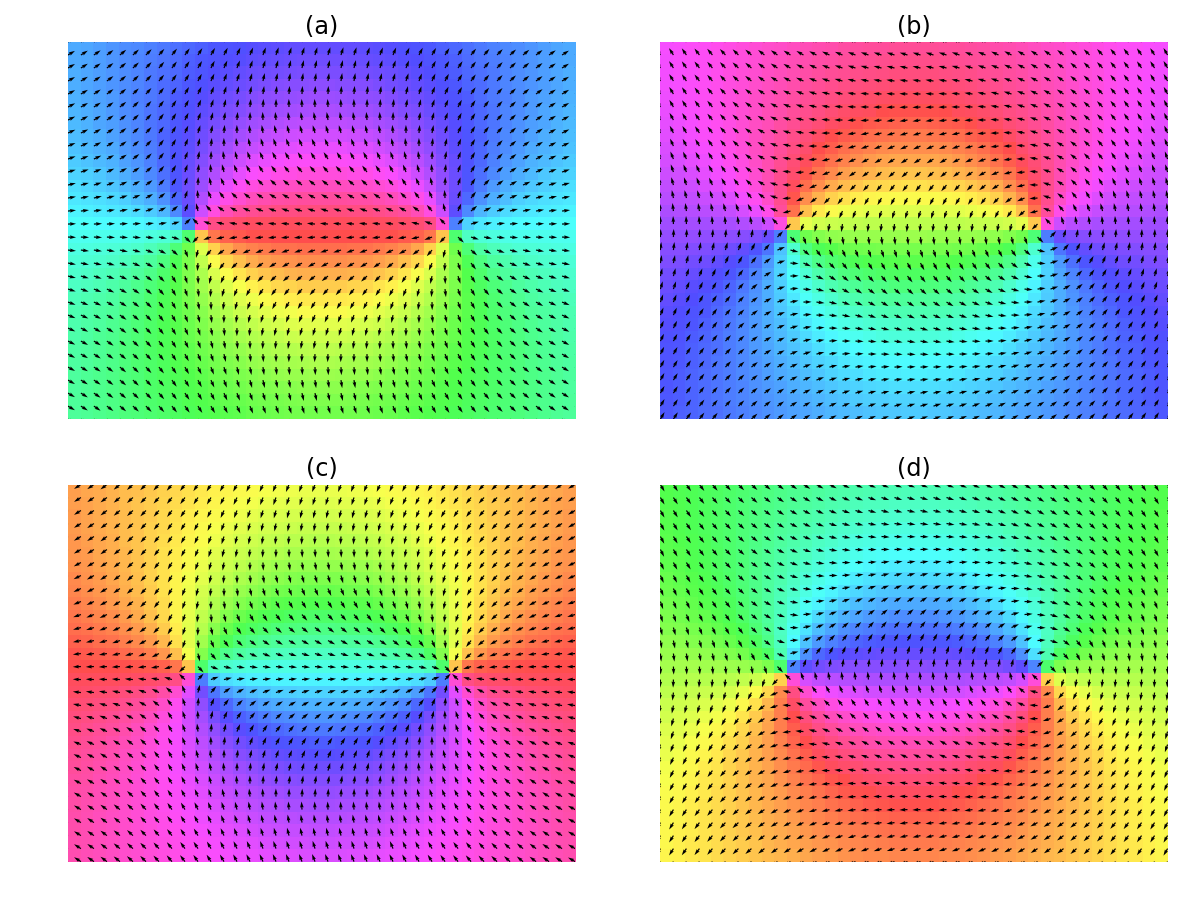
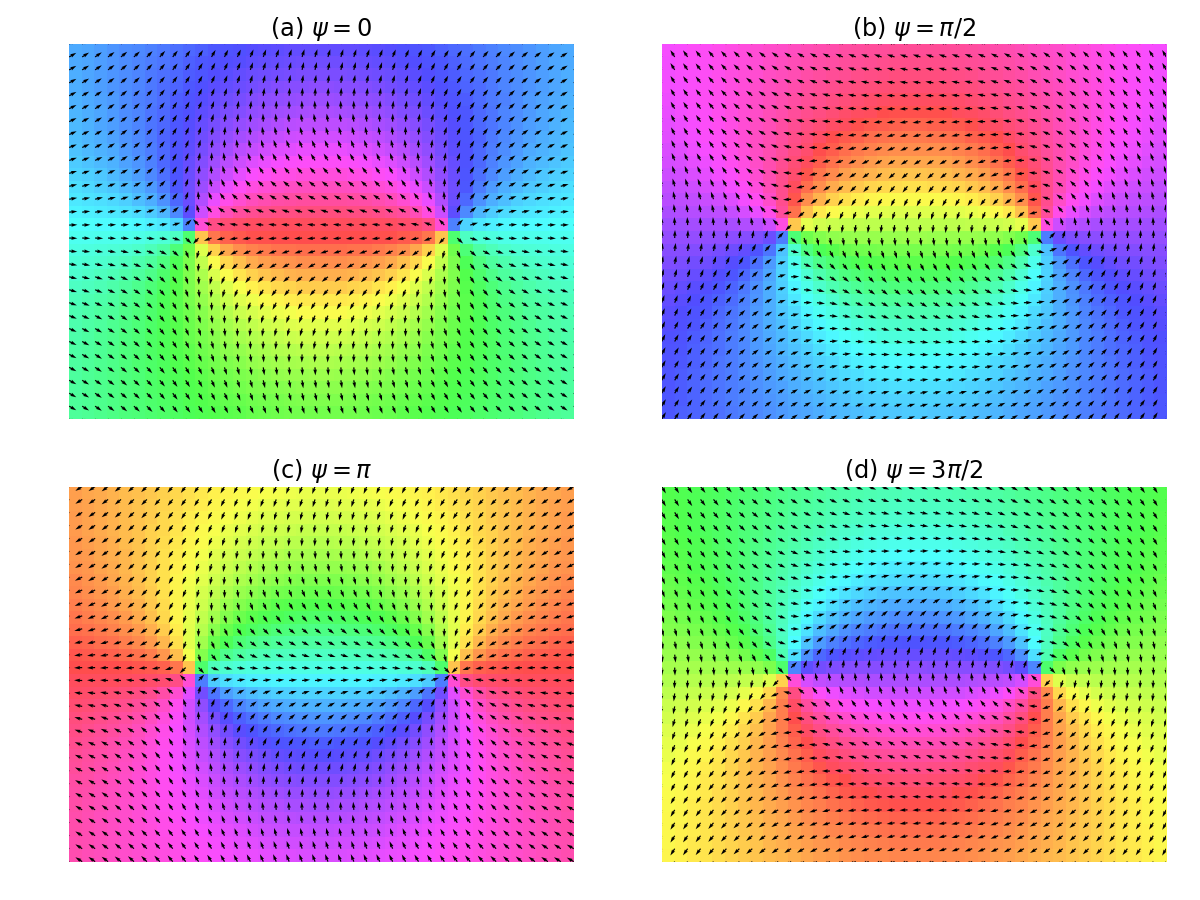
show the module of velocity when make a movie

diff --git a/VMpy/animate.py b/VMpy/animate.py
@@ -7,14 +7,16 @@ import numpy as np
 import platform
 import sys
 import matplotlib
-matplotlib.use("Agg")
 if platform.system() is "Windows":
     import matplotlib.pyplot as plt
     import matplotlib.animation as animation
+    from matplotlib.colors import hsv_to_rgb
     plt.rcParams['animation.ffmpeg_path'] = r"D:\ffmpeg\bin\ffmpeg"
 else:
+    matplotlib.use("Agg")
     import matplotlib.pyplot as plt
     import matplotlib.animation as animation
+    from matplotlib.colors import hsv_to_rgb
     dest = "/ffmpeg-3.3-64bit-static/ffmpeg"
     path1 = "/home-gk/users/nscc1185/Applications"
     path2 = "/home-yw/users/nsyw449_YK/dy/Program"
@@ -27,27 +29,71 @@ else:
         sys.exit()
 
 
+def get_rgb(num, svx, svy, nrows, ncols, vmax=10):
+    theta = np.arctan2(svy, svx)
+    module = np.sqrt(svx**2 + svy**2)
+    H = theta / (np.pi * 2) + 0.5
+    max_module = module.max()
+    if max_module < vmax:
+        V = module / max_module
+    else:
+        V = module / vmax
+        V[V > 1] = 1
+    H = H.reshape(nrows, ncols)
+    V = V.reshape(nrows, ncols)
+    S = np.ones_like(H)
+    HSV = np.dstack((H, S, V))
+    RGB = hsv_to_rgb(HSV)
+    return RGB
+
+
 def set_dt(t):
     """ Set time interval between two frames. """
-    if t < 20:
+    if t < 30:
         dt = 1
-    elif t < 40:
+    elif t < 60:
         dt = 2
-    elif t < 80:
+    elif t < 120:
         dt = 4
-    elif t < 160:
+    elif t < 240:
         dt = 8
-    elif t < 320:
+    elif t < 480:
         dt = 16
-    elif t < 640:
+    elif t < 960:
         dt = 32
     else:
         dt = 64
     return dt
 
 
-def make_movie(L, rho0, d0, rot_angle, nstep, eta, eps=0, seed=1, v0=0.5, l=1):
+def set_range(t, v0, nrows, ncols, l):
+    """ Set the region to show. """
+    d = 64 // l
+    rowc = nrows // 2
+    colc = ncols // 2
+    if t < 100 or v0 == 0:
+        row1, row2 = rowc - d, rowc + d
+        col1, col2 = colc - d, colc + d
+    elif t < 200:
+        row1, row2 = rowc - d * 2, rowc + d * 2
+        col1, col2 = colc - d * 2, colc + d * 2
+    elif t < 800:
+        row1, row2 = rowc - d * 4, rowc + d * 4
+        col1, col2 = colc - d * 4, colc + d * 4
+    elif t < 1600:
+        row1, row2 = rowc - d * 8, rowc + d * 8
+        col1, col2 = colc - d * 8, colc + d * 8
+    else:
+        row1, row2 = 0, nrows
+        col1, col2 = 0, ncols
+    box = [row1 * l, row2 * l, col1 * l, col2 * l]
+    return col1, col2, row1, row2, box
+
+
+def make_movie(L, rho0, d0, spin_num, nstep, eta, eps=0, seed=1, v0=0.5, l=1):
     """ Show the evolution of defect pairs.
+
+    Left pannel for density fields while right pannel for orientational fields.
 
     Parameters:
     --------
@@ -57,8 +103,8 @@ def make_movie(L, rho0, d0, rot_angle, nstep, eta, eps=0, seed=1, v0=0.5, l=1):
             Particle number density.
         d0 : float
             Half of separation betwwen two defects.
-        rot_angle : float
-            Rototion angle: 0, 1/2 PI, PI, 3/2 PI.
+        spin_num : int
+            Rototion angle: 0, spin_num * PI / 2
         nstep : int
             Total time steps to run.
         eta : float
@@ -72,24 +118,55 @@ def make_movie(L, rho0, d0, rot_angle, nstep, eta, eps=0, seed=1, v0=0.5, l=1):
         l : int, optional
             Boxes size for coarse-graining.
     """
-    ncols = L // l
-    nrows = L // l
+
+    # create defect pair
+    rot_angle = spin_num * np.pi / 2
     x, y, phi = defect.create_defect_pair(d0, rho0, L, rot_angle=rot_angle)
     num, svx, svy = defect.coarse_grain(x, y, phi, L, L, l)
+    # initialize VMpy
     VMpy.ini(x, y, np.cos(phi), np.sin(phi), seed, v0, eta, eps, L, L)
+
+    # initialize movie writter
     FFMpegWriter = animation.writers["ffmpeg"]
     writer = FFMpegWriter(fps=2, metadata=dict(artist="Matplotlib"))
-    filename = "data/%d_%g_%g_%g_%d.mp4" % (L, rho0, eta, eps, seed)
-    fig, axes = plt.subplots(nrows=1, ncols=2, figsize=(12, 6))
+
+    # set outfile name
+    if spin_num == 0:
+        mode = "a"
+    elif spin_num == 1:
+        mode = "b"
+    elif spin_num == 2:
+        mode == "c"
+    else:
+        mode = "d"
+    filename = "data/L=%d_rho=%g_eta=%g_eps=%g_v=%g_%s.mp4" % (L, rho0, eta,
+                                                               eps, v0, mode)
+    fig = plt.figure(figsize=(12, 7))
     with writer.saving(fig, filename, dpi=100):
-        im0 = axes[0].imshow(
+        # show inital configuration of defect pair
+        for i in range(6):
+            ax = plt.subplot(111)
+            defect.show_defects(50, 30, d0, rot_angle, ax, L / 2, L / 2, True)
+            title = "Inital state: system size $L=%d$, " % L \
+                + "defect spacing $d_0=%d$, " % (2 * d0) \
+                + "uniform density %d,\n" % (rho0) \
+                + r"velocity $v_0=%g,\ $" % v0 + r"$\eta = %g,\ $" % eta \
+                + r"$\epsilon=%g$" % eps
+            ax.set_title(title, fontsize="xx-large")
+            writer.grab_frame()
+            plt.clf()
+
+        # plot two panels
+        ax1 = plt.subplot(121)
+        ax2 = plt.subplot(122)
+        im0 = ax1.imshow(
             np.zeros((L, L)),
             animated=True,
             extent=[0, L, 0, L],
             origin="lower",
             vmin=0,
             vmax=rho0 * 2.5)
-        im1 = axes[1].imshow(
+        im1 = ax2.imshow(
             np.zeros((L, L)),
             animated=True,
             extent=[0, L, 0, L],
@@ -97,14 +174,19 @@ def make_movie(L, rho0, d0, rot_angle, nstep, eta, eps=0, seed=1, v0=0.5, l=1):
             vmin=-np.pi,
             vmax=np.pi,
             cmap="hsv")
-        plt.colorbar(im0, ax=axes[0], orientation="horizontal")
-        plt.colorbar(im1, ax=axes[1], orientation="horizontal")
-        axes[0].set_title("density")
-        axes[1].set_title("orientation")
+        plt.colorbar(im0, ax=ax1, orientation="horizontal", extend="max")
+        ticks = [-np.pi, -0.5 * np.pi, 0, 0.5 * np.pi, np.pi]
+        labels = [r"$-\pi$", r"$-\pi/2$", r"$0$", r"$\pi/2$", r"$\pi$"]
+        cb2 = plt.colorbar(im1, ax=ax2, orientation="horizontal", ticks=ticks)
+        cb2.ax.set_xticklabels(labels)
+        ax1.set_title("density")
+        ax2.set_title("orientation")
         title = plt.suptitle("")
-        title_template = r"$L=%d,\ \rho_0=%g, \eta=%g,\ \epsilon=%g,\ d_0=%d,\ " \
-            + r"t=%d,\ \langle\phi\rangle=%.5f$"
+        title_template = r"$L=%d,\ \rho_0=%g, \eta=%g,\ \epsilon=%g,\ " \
+            + r"v_0=%g,\ t=%d,\ \langle\phi\rangle=%.5f$"
         plt.tight_layout(rect=[0, 0, 1, 0.96])
+        ncols = L // l
+        nrows = L // l
         t = 0
         while t <= nstep:
             print("t=%d" % t)
@@ -115,22 +197,16 @@ def make_movie(L, rho0, d0, rot_angle, nstep, eta, eps=0, seed=1, v0=0.5, l=1):
             t += dt
             order_para = np.sqrt(np.sum(svx)**2 + np.sum(svy)**2) / (
                 L**2 * rho0)
-            phi2d = np.arctan2(svy, svx).reshape(nrows, ncols)
-            if t < 100:
-                ymin, ymax = nrows * 3 // 8, nrows * 5 // 8
-                xmin, xmax = ncols * 3 // 8, ncols * 5 // 8
-            elif t < 500:
-                ymin, ymax = nrows * 1 // 4, nrows * 3 // 4
-                xmin, xmax = ncols * 1 // 4, ncols * 3 // 4
-            else:
-                ymin, ymax = 0, nrows
-                xmin, xmax = 0, ncols
-            im0.set_data(num.reshape(nrows, ncols)[ymin:ymax, xmin:xmax])
-            im1.set_data(phi2d[ymin:ymax, xmin:xmax])
-            title.set_text(title_template % (L, rho0, eta, eps, d0, t,
+            col1, col2, row1, row2, box = set_range(t, v0, nrows, ncols, l)
+            im0.set_data(num.reshape(nrows, ncols)[row1:row2, col1:col2])
+            # phi2d = np.arctan2(svy, svx).reshape(nrows, ncols)
+            # im1.set_data(phi2d[ymin:ymax, xmin:xmax])
+            RGB = get_rgb(num, svx, svy, nrows, ncols, rho0 * 2.5)
+            im1.set_data(RGB[row1:row2, col1:col2])
+            title.set_text(title_template % (L, rho0, eta, eps, v0, t,
                                              order_para))
-            im0.set_extent([ymin, ymax, xmin, xmax])
-            im1.set_extent([ymin, ymax, xmin, xmax])
+            im0.set_extent(box)
+            im1.set_extent(box)
             writer.grab_frame()
 
 

diff --git a/XYmodel/testXYmodel.py b/XYmodel/testXYmodel.py
@@ -1,8 +1,29 @@
 """ Test XYmodel."""
 
 import numpy as np
-import matplotlib.pyplot as plt
 import XYmodel as XY
+import sys
+import os
+import platform
+import matplotlib
+matplotlib.use("Agg")
+if platform.system() is "Windows":
+    import matplotlib.pyplot as plt
+    import matplotlib.animation as animation
+    plt.rcParams['animation.ffmpeg_path'] = r"D:\ffmpeg\bin\ffmpeg"
+else:
+    import matplotlib.pyplot as plt
+    import matplotlib.animation as animation
+    dest = "/ffmpeg-3.3-64bit-static/ffmpeg"
+    path1 = "/home-gk/users/nscc1185/Applications"
+    path2 = "/home-yw/users/nsyw449_YK/dy/Program"
+    if os.path.exists(path1):
+        plt.rcParams['animation.ffmpeg_path'] = path1 + dest
+    elif os.path.exists(path2):
+        plt.rcParams['animation.ffmpeg_path'] = path2 + dest
+    else:
+        print("Error, cannot find ffmpeg")
+        sys.exit()
 
 
 def create_defect_pair(a, L, rot_angle=0):
@@ -26,34 +47,35 @@ def create_defect_pair(a, L, rot_angle=0):
     return phi.flatten()
 
 
-if __name__ == "__main__":
-    L = 512
-    dt = 0.05
-    eta = 1
-    n = L * L
-    seed = 123
-    a = 50
-    phi = create_defect_pair(a, L, 0)
-    # plt.imshow(phi.reshape(L, L), cmap="hsv", origin="lower")
-    psi = np.sin(2 * phi.reshape(L, L)) ** 2
-    plt.imshow(psi, cmap="Greys", origin="lower")
-    order_para = np.sqrt(np.mean(np.cos(phi))**2 + np.mean(np.sin(phi))**2)
-    plt.title(r"$t=%d\, \langle \phi\rangle = %.4f$" % (0, order_para))
-    # plt.show()
-    plt.savefig("data/%d_%d_%d.png" % (L, eta, 0))
-    plt.close()
-
+def animate(a, L, eta, N, dN, psi=0, seed=1, dt=0.05):
+    phi = create_defect_pair(a, L, psi)
     XY.ini(L, dt, eta, seed, phi)
+    FFMpegWriter = animation.writers["ffmpeg"]
+    writer = FFMpegWriter(fps=10, metadata=dict(artist="Matplotlib"))
+    filename = "data/%d_%g_%d.mp4" % (L, eta, seed)
+    fig = plt.figure()
+    im = plt.imshow(
+        np.zeros((L, L)),
+        animated=True,
+        extent=[0, L, 0, L],
+        origin="lower",
+        vmin=0,
+        vmax=1,
+        cmap="Greys")
+    title = plt.title("", fontsize="xx-large")
+    title_template = r"$L=%d,\ t=%.1f$"
+    plt.colorbar()
+    with writer.saving(fig, filename, dpi=100):
+        step = 0
+        while step < N:
+            PHY = np.sin(2 * phi.reshape(L, L))**2
+            im.set_data(PHY.reshape(L, L))
+            title.set_text(title_template % (L, step * dt))
+            writer.grab_frame()
+            XY.run(dN, phi)
+            print("N=%d" % step)
+            step += dN
 
-    step = 1000
-    for i in range(200):
-        XY.run(step, phi)
-        # plt.imshow(phi.reshape(L, L), cmap="hsv", origin="lower")
-        psi = np.sin(2 * phi.reshape(L, L)) ** 2
-        plt.imshow(psi, cmap="Greys", origin="lower")
-        order_para = np.sqrt(np.mean(np.cos(phi))**2 + np.mean(np.sin(phi))**2)
-        plt.title(r"$t=%d\, \langle \phi\rangle = %.4f$" % ((i + 1) * step,
-                                                            order_para))
-        # plt.show()
-        plt.savefig("data/g%d_%d_%d.png" % (L, eta, (i + 1) * step))
-        plt.close()
+
+if __name__ == "__main__":
+    animate(20, 512, 1, 1000000, 1000)

diff --git a/VMpy/defect.py b/VMpy/defect.py
@@ -6,20 +6,17 @@ import numpy as np
 import matplotlib.pyplot as plt
 
 
-def show_defects(psi=0, ax=None):
+def show_defects(Lx, Ly, a, psi=0, ax=None, xc=0, yc=0, show_axis=False):
     if ax is None:
         ax = plt.subplot(111)
         flag_show = True
     else:
         flag_show = False
-    Lx = 40
-    Ly = 30
-    a = 10
-    x = np.arange(Lx) + 0.5 - 0.5 * Lx
-    y = np.arange(Ly) + 0.5 - 0.5 * Ly
+    x = np.arange(Lx) + 0.5 - 0.5 * Lx + xc
+    y = np.arange(Ly) + 0.5 - 0.5 * Ly + yc
     xx, yy = np.meshgrid(x, y)
-    phi1 = np.arctan2(yy, xx - a)
-    phi2 = np.arctan2(yy, xx + a)
+    phi1 = np.arctan2(yy - yc, xx - a - xc)
+    phi2 = np.arctan2(yy - yc, xx + a - xc)
     phi = phi1 - phi2 + psi
     phi[phi < -np.pi] += 2 * np.pi
     phi[phi > np.pi] -= 2 * np.pi
@@ -29,22 +26,29 @@ def show_defects(psi=0, ax=None):
     ax.imshow(phi, origin="lower", cmap="hsv", extent=box, alpha=0.7)
     ax.quiver(xx, yy, dx, dy, units='inches')
     ax.axis("scaled")
-    ax.axis("off")
+    if not show_axis:
+        ax.axis("off")
     if flag_show:
         plt.show()
         plt.close()
 
 
 def show_four_defect_pairs():
+    Lx = 40
+    Ly = 30
+    a = 10
     fig, axes = plt.subplots(nrows=2, ncols=2, figsize=(12, 9))
     psi = [0, np.pi * 0.5, np.pi, 1.5 * np.pi]
-    label = ["(a)", "(b)", "(c)", "(d)"]
+    label = [
+        r"(a) $\psi=0$", r"(b) $\psi=\pi / 2$", r"(c) $\psi= \pi$",
+        r"(d) $\psi=3\pi/2$"
+    ]
     for i, ax in enumerate(axes.flat):
-        show_defects(psi[i], ax)
+        show_defects(Lx, Ly, a, psi[i], ax)
         ax.set_title(label[i], fontsize="xx-large")
     plt.tight_layout()
     # plt.show()
-    plt.savefig("data/defect_pairs.png")
+    plt.savefig("data/defect_pairs.pdf")
     plt.close()
 
 
@@ -90,8 +94,8 @@ def coarse_grain(x, y, phi, Lx, Ly, l=1):
     vy_new = np.zeros((ny, nx))
     num = np.zeros((ny, nx), np.int32)  # np.int32 for Linux platform
     for k in range(x.size):
-        i = int(x[k])
-        j = int(y[k])
+        i = int(x[k] / l)
+        j = int(y[k] / l)
         vx_new[j, i] += vx[k]
         vy_new[j, i] += vy[k]
         num[j, i] += 1
